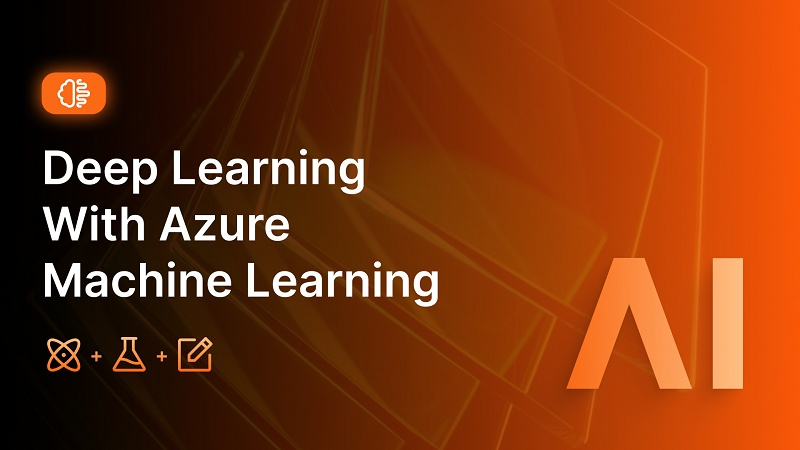
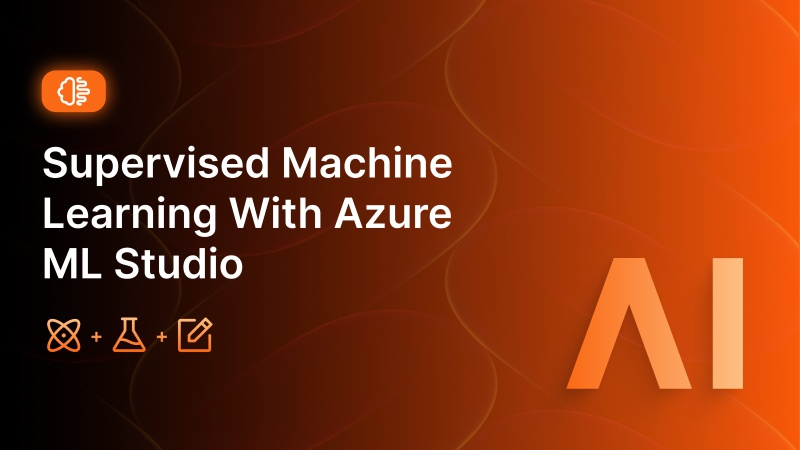
New thumbnails by Valeria

diff --git a/content/lab/csharp-and-tensorflow/_index.md b/content/lab/csharp-and-tensorflow/_index.md
@@ -3,9 +3,8 @@ title: "Supervised Machine Learning with C# and Tensorflow.NET"
 description: "Build Machine Learning Applications In C# With The Tensorflow.NET Library"
 type: "lab"
 layout: "single"
-image: lab-tensorflow-csharp.jpg
-hideLab: false
-sortkey: 50
+image: lab-csharp-and-tensorflow.jpg
+sortkey: 50 
 hideLab: true
 
 courseName: "Supervised Machine Learning with C# and Tensorflow.NET"

diff --git a/content/lab/fsharp-and-mlnet/_index.md b/content/lab/fsharp-and-mlnet/_index.md
@@ -3,8 +3,7 @@ title: "Supervised Machine Learning with F# and ML.NET"
 description: "Build Machine Learning Applications In F# With The Microsoft ML.NET Library"
 type: "lab"
 layout: "single"
-image: lab-mlnet-fsharp.jpg
-hideLab: false
+image: lab-fsharp-and-mlnet.jpg
 sortkey: 20
 
 courseName: "Machine Learning with F# and ML.NET"

diff --git a/content/lab/csharp-and-mlnet/_index.md b/content/lab/csharp-and-mlnet/_index.md
@@ -3,7 +3,7 @@ title: "Supervised Machine Learning with C# and ML.NET"
 description: "Build Machine Learning Applications In C# With The Microsoft ML.NET Library"
 type: "lab"
 layout: "single"
-image: lab-mlnet-csharp.jpg
+image: lab-csharp-and-mlnet.jpg
 sortkey: 10
 
 courseName: "Supervised Machine Learning with C# and ML.NET"

diff --git a/content/lab/csharp-and-keras/_index.md b/content/lab/csharp-and-keras/_index.md
@@ -3,8 +3,7 @@ title: "Supervised Machine Learning with C# and Keras.NET"
 description: "Build Machine Learning Applications In C# With The Keras.NET Library"
 type: "lab"
 layout: "single"
-image: lab-tensorflow-csharp.jpg
-hideLab: false
+image: lab-csharp-and-keras.jpg
 sortkey: 60
 hideLab: true
 

diff --git a/content/lab/automl-and-mlnetcli/_index.md b/content/lab/automl-and-mlnetcli/_index.md
@@ -3,7 +3,7 @@ title: "Supervised Machine Learning with AutoML and ML.NET CLI"
 description: "Build Cloud-Scale Machine Learning Applications In Azure Machine Learning Studio"
 type: "lab"
 layout: "single"
-image: lab-azure-mlstudio.jpg
+image: lab-azure-automl.jpg
 sortkey: 80
 hideLab: true
 

diff --git a/content/lab/csharp-and-accord/_index.md b/content/lab/csharp-and-accord/_index.md
@@ -3,7 +3,7 @@ title: "Supervised Machine Learning with C# and Accord.NET"
 description: "Build Machine Learning Applications In C# With The Accord.NET Library"
 type: "lab"
 layout: "single"
-image: lab-mlnet-csharp.jpg
+image: lab-csharp-and-accord.jpg
 sortkey: 30
 hideLab: true
 

diff --git a/content/lab/csharp-and-cntk/_index.md b/content/lab/csharp-and-cntk/_index.md
@@ -3,7 +3,7 @@ title: "Supervised Machine Learning with C# and CNTK"
 description: "Build Machine Learning Applications In C# With The Microsoft ML.NET Library"
 type: "lab"
 layout: "single"
-image: lab-cntk-csharp.jpg
+image: lab-csharp-and-cntk.jpg
 sortkey: 40
 hideLab: true
 
